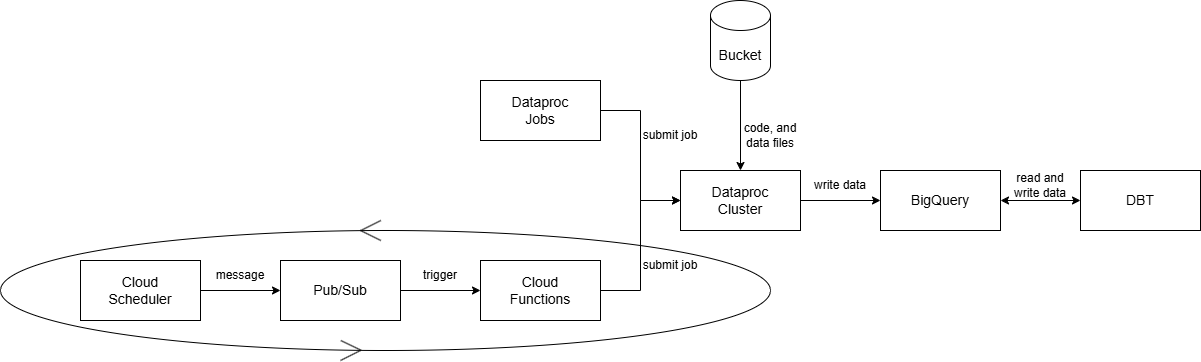
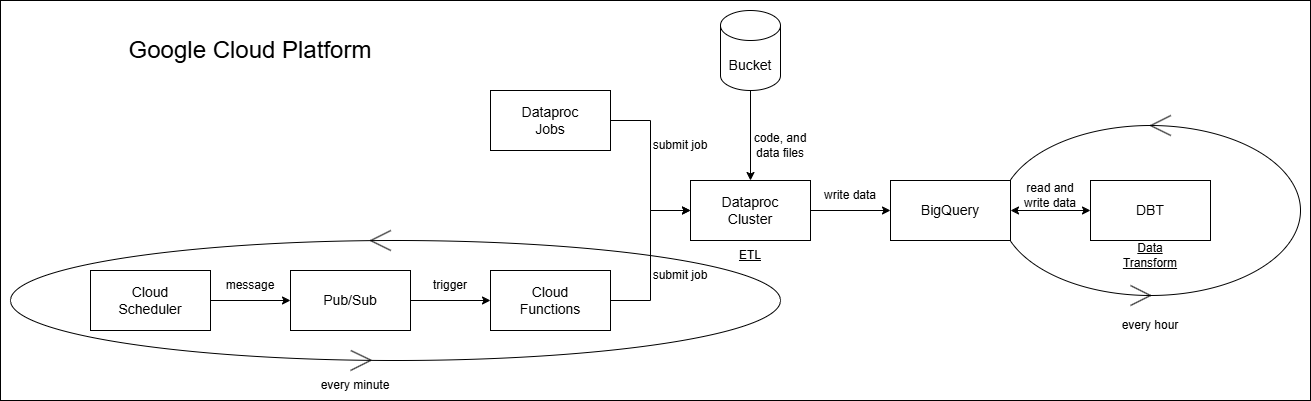
include steps for dbt execution

diff --git a/README.md b/README.md
@@ -190,6 +190,28 @@ This architecture enables scalable, real-time data processing, storage, and tran
     - Click on the new service account, go to "Keys" tab, "Add Key", "Create a new key", "JSON".
     - Download the service account keys as a json file.
 
+    Visit [Get DBT](https://www.getdbt.com/) and create an account to get started.
+    - Create a new project.
+    - Create a new connection by providing the service account json file created above.
+    - Connect to a GitHub repository.
+    - Add / Update the following files:
+        - `dbt_project.yml`
+        - `models/modelflow/btc.sql`
+        - `models/modelflow/xau.sql`
+        - `models/modelflow/transformed_data.sql`
+    - Commit and push the changes.
+    - Navigate to "Deploy", and create an "Environment".
+    - Create a new "Job".
+    - Give the job a name.
+    - Select the Environment.
+    - Give the command
+
+        ```
+        dbt run --model transformed_data
+        ```
+    - Turn on Schedule for every hour.
+    - Create the job and run it.
+
 ---
 
 ## Results
@@ -203,6 +225,10 @@ This architecture enables scalable, real-time data processing, storage, and tran
     Bitcoin Prices Data
 
     ![bitcoin sample](./assets/bitcoin_price_sample.png)
+
+    DBT Transformed Data
+
+    ![transformed sample](./assets/transformed_data_sample.png)
 
 2. Regression models on historical data:
     |Model| RMSE | R² |
@@ -226,7 +252,9 @@ This architecture enables scalable, real-time data processing, storage, and tran
 2. [Coinbase: Get product candles](https://docs.cdp.coinbase.com/exchange/reference/exchangerestapi_getproductcandles)
 3. [PySpark](https://spark.apache.org/docs/latest/api/python/index.html#:~:text=PySpark%20is%20the%20Python%20API,for%20interactively%20analyzing%20your%20data.)
 4. [Use the BigQuery connector with Spark](https://cloud.google.com/dataproc/docs/tutorials/bigquery-connector-spark-example)
-5. [ChatGPT](https://chatgpt.com/)
+5. [Workflow scheduling solutions](https://cloud.google.com/dataproc/docs/concepts/workflows/workflow-schedule-solutions)
+6. [DBT Documentation](https://docs.getdbt.com/docs/build/documentation)
+7. [ChatGPT](https://chatgpt.com/)
 
 ---
 
